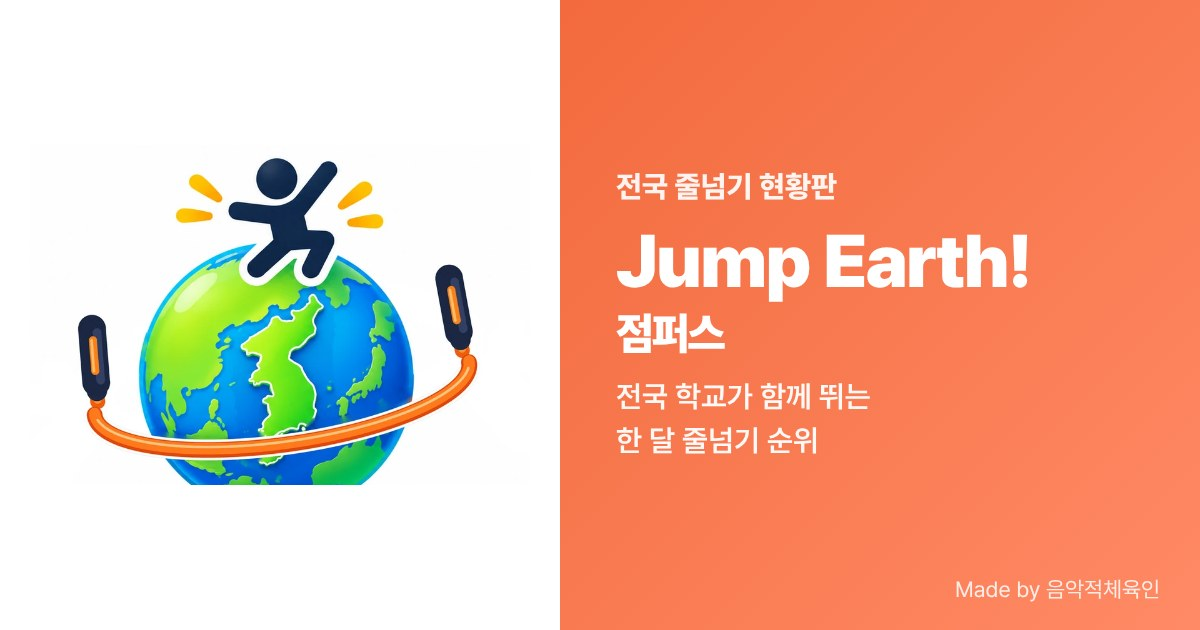
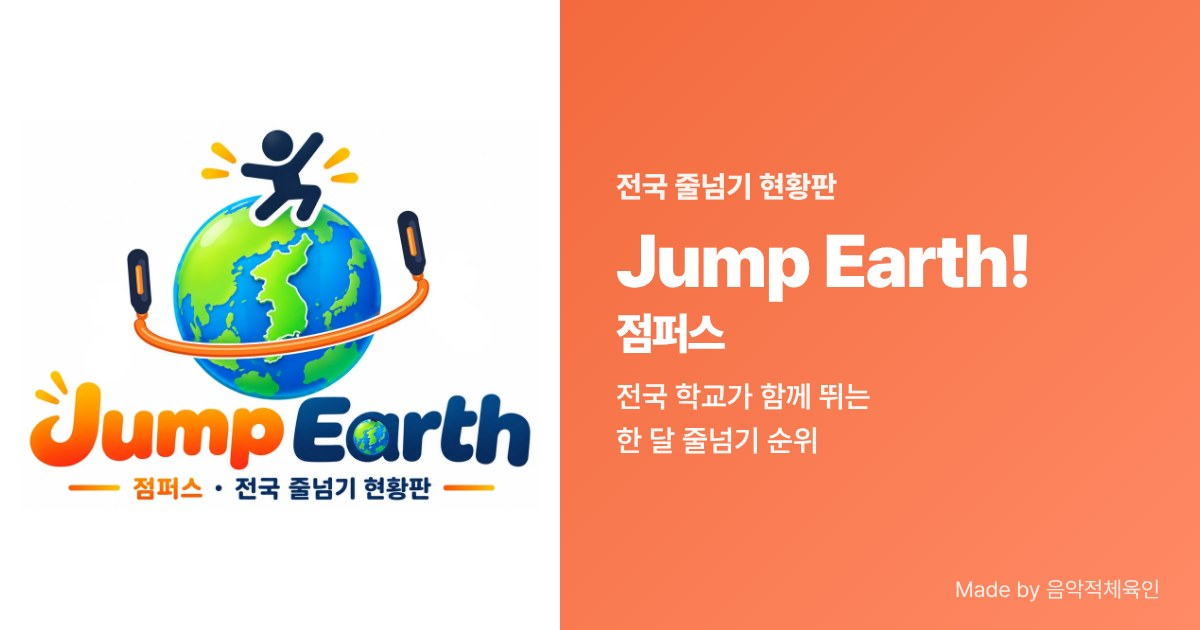
썸네일: 지구본이 잘리지 않게 로고 전체로
Claude-Session: https://claude.ai/code/session_01AgCmpLpbzLfpx6hsfkwK9C

Changed region(s): [[0.0, 0.2111, 0.4625, 0.8143]]

diff --git a/club/board.html b/club/board.html
@@ -10,7 +10,7 @@
 <meta property="og:title" content="Jump Earth! 클럽 리그 · 전국 클럽 줄넘기 현황판">
 <meta property="og:description" content="전국 클럽이 함께 뛰는 한 달 줄넘기 순위 — 클럽 · 학생 · 며칠 연속 · 한 번에 최고 연속">
 <meta property="og:url" content="https://musicalpe.github.io/jumprope/club/board.html">
-<meta property="og:image" content="https://musicalpe.github.io/jumprope/img/og-club-board.jpg">
+<meta property="og:image" content="https://musicalpe.github.io/jumprope/img/og-club-board.jpg?v=2">
 <meta property="og:image:width" content="1200">
 <meta property="og:image:height" content="630">
 <meta name="twitter:card" content="summary_large_image">

diff --git a/club/index.html b/club/index.html
@@ -10,7 +10,7 @@
 <meta property="og:title" content="Jump Us! 점퍼스 클럽 · 스포츠클럽·도장 줄넘기 기록">
 <meta property="og:description" content="학생 휴대폰으로 QR 찍고 횟수만 넣으면 끝. 급수 인증 · 국토 대장정 · 점프 Live · 전국 현황판">
 <meta property="og:url" content="https://musicalpe.github.io/jumprope/club/">
-<meta property="og:image" content="https://musicalpe.github.io/jumprope/img/og-club-app.jpg">
+<meta property="og:image" content="https://musicalpe.github.io/jumprope/img/og-club-app.jpg?v=2">
 <meta property="og:image:width" content="1200">
 <meta property="og:image:height" content="630">
 <meta name="twitter:card" content="summary_large_image">

diff --git a/board.html b/board.html
@@ -10,7 +10,7 @@
 <meta property="og:title" content="Jump Earth! 점퍼스 · 전국 줄넘기 현황판">
 <meta property="og:description" content="전국 학교가 함께 뛰는 한 달 줄넘기 순위 — 학교 · 학생 · 며칠 연속 · 한 번에 최고 연속">
 <meta property="og:url" content="https://musicalpe.github.io/jumprope/board.html">
-<meta property="og:image" content="https://musicalpe.github.io/jumprope/img/og-board.jpg">
+<meta property="og:image" content="https://musicalpe.github.io/jumprope/img/og-board.jpg?v=2">
 <meta property="og:image:width" content="1200">
 <meta property="og:image:height" content="630">
 <meta name="twitter:card" content="summary_large_image">

diff --git a/beta/index.html b/beta/index.html
@@ -10,7 +10,7 @@
 <meta property="og:title" content="Jump Us! 점퍼스 · 줄넘기 기록">
 <meta property="og:description" content="학생 휴대폰으로 QR 찍고 횟수만 넣으면 끝. 급수 인증 · 국토 대장정 · 점프 Live · 전국 현황판">
 <meta property="og:url" content="https://musicalpe.github.io/jumprope/">
-<meta property="og:image" content="https://musicalpe.github.io/jumprope/img/og-app.jpg">
+<meta property="og:image" content="https://musicalpe.github.io/jumprope/img/og-app.jpg?v=2">
 <meta property="og:image:width" content="1200">
 <meta property="og:image:height" content="630">
 <meta name="twitter:card" content="summary_large_image">

diff --git a/index.html b/index.html
@@ -10,7 +10,7 @@
 <meta property="og:title" content="Jump Us! 점퍼스 · 줄넘기 기록">
 <meta property="og:description" content="학생 휴대폰으로 QR 찍고 횟수만 넣으면 끝. 급수 인증 · 국토 대장정 · 점프 Live · 전국 현황판">
 <meta property="og:url" content="https://musicalpe.github.io/jumprope/">
-<meta property="og:image" content="https://musicalpe.github.io/jumprope/img/og-app.jpg">
+<meta property="og:image" content="https://musicalpe.github.io/jumprope/img/og-app.jpg?v=2">
 <meta property="og:image:width" content="1200">
 <meta property="og:image:height" content="630">
 <meta name="twitter:card" content="summary_large_image">

diff --git a/club/hall.html b/club/hall.html
@@ -10,7 +10,7 @@
 <meta property="og:title" content="Jumpers! 클럽 리그 · 기록실">
 <meta property="og:description" content="지난 달 1~3등 클럽과 학생 — 최근 12개월 기록">
 <meta property="og:url" content="https://musicalpe.github.io/jumprope/club/hall.html">
-<meta property="og:image" content="https://musicalpe.github.io/jumprope/img/og-club-hall.jpg">
+<meta property="og:image" content="https://musicalpe.github.io/jumprope/img/og-club-hall.jpg?v=2">
 <meta property="og:image:width" content="1200">
 <meta property="og:image:height" content="630">
 <meta name="twitter:card" content="summary_large_image">

diff --git a/hall.html b/hall.html
@@ -10,7 +10,7 @@
 <meta property="og:title" content="Jumpers! 점퍼스 · 기록실">
 <meta property="og:description" content="지난 달 1~3등 학교와 학생 — 최근 12개월 기록">
 <meta property="og:url" content="https://musicalpe.github.io/jumprope/hall.html">
-<meta property="og:image" content="https://musicalpe.github.io/jumprope/img/og-hall.jpg">
+<meta property="og:image" content="https://musicalpe.github.io/jumprope/img/og-hall.jpg?v=2">
 <meta property="og:image:width" content="1200">
 <meta property="og:image:height" content="630">
 <meta name="twitter:card" content="summary_large_image">
